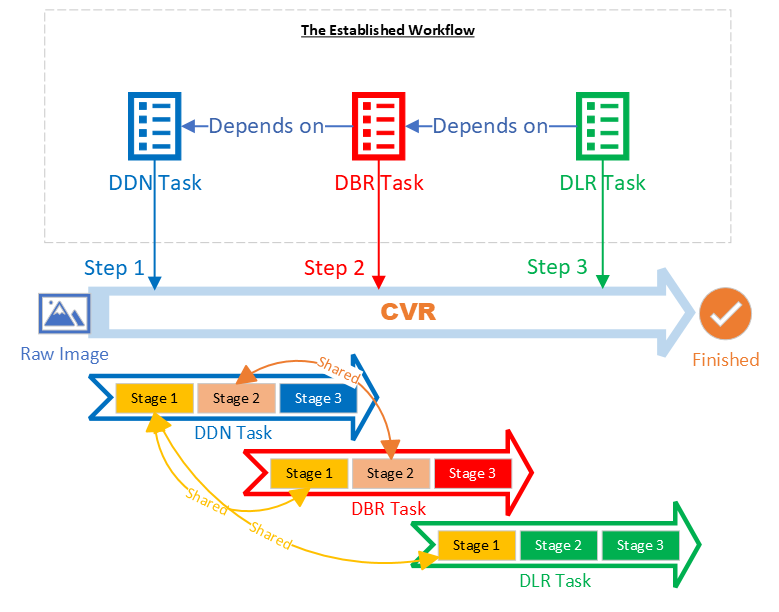
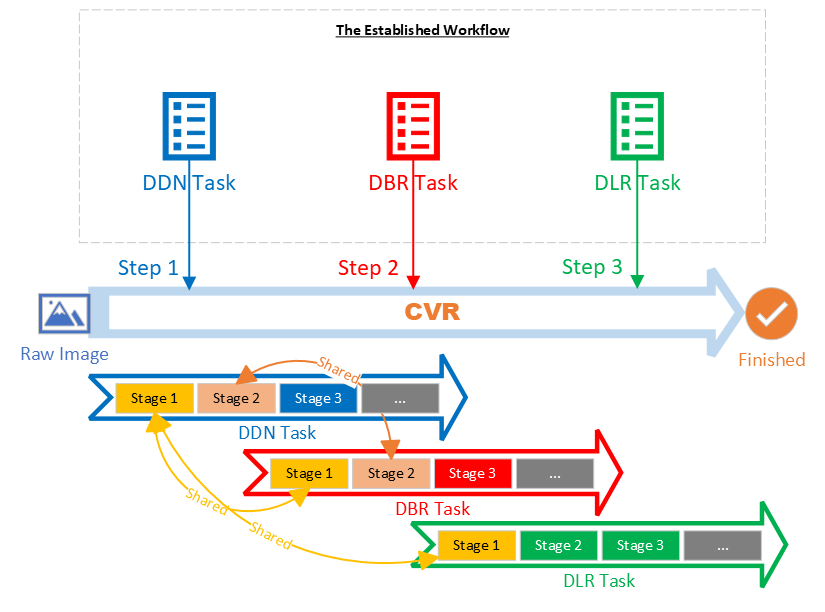
updated architecture page a bit

diff --git a/parameters/file/task-settings/index.md b/parameters/file/task-settings/index.md
@@ -24,33 +24,33 @@ There are five types of tasks and they belong to two categories: image processin
 | Normalize a Document | DDN          | Image Processing    | Normalized Image     |
 | Parse Text
 
-## Divisible Task
+## Divide Task into Sections
 
-An image-processing task can be further devided into three section.
+An image-processing task can be further divided into three section.
 
 > Note that a semantic-processing task is not divisible.
 
 | Task Type            | Sections                                                         |
 | :------------------- | :--------------------------------------------------------------- |
-| Read Barcodes        | Region Predetection, Barcode Localization, Barcode Decoding      |
-| Recognize Text Lines | Region Predetection, Textline Localization, Textline Recognition |
-| Normalize a Document | Region Predetection, Document Detection, Document Normalization  |
+| Read Barcodes        | Region Pre-detection, Barcode Localization, Barcode Decoding      |
+| Recognize Text Lines | Region Pre-detection, Text-line Localization, Text-line Recognition |
+| Normalize a Document | Region Pre-detection, Document Detection, Document Normalization  |
 
 There are 7 different image-processing sections in total which belong to one of three steps of a task:
 
 - Step one: initial image processing, trying to find parts of the image, called "regions" that exhibit distinct features that match the result we are trying to obtain. Then these regions are cropped to produce regional images as the final output of this step for the next step to process. There is only one section for this step:
-  - [Region Predetection](image-process/region-predetection.md)
+  - [Region Pre-detection](image-process/region-Pre-detection.md)
   > 1. If no specific region is found, the entire image is the output.
   > 2. There can be multiple regions found which result in multiple regional images as the output.
-- Step two: detecting the precise location, called "zones" of the final results (a barcode, a textline or a document) on the regional images from step one. Then these zones are cropped to produce zonal images as the final output of step two. This step is one of the following three sections:
+- Step two: detecting the precise location, called "zones" of the final results (a barcode, a text-line or a document) on the regional images from step one. Then these zones are cropped to produce zonal images as the final output of step two. This step is one of the following three sections:
   - [Barcode Localization](image-process/barcode-localization.md)
-  - [Textline Localization](image-process/textline-localization.md)
+  - [Text-line Localization](image-process/textline-localization.md)
   - [Document Detection](assets/document-detection.png) (a document refers to an object with a quadrilateral boundary)
   > 1. As seen on the table above, one task will have only one of these sections.
-  > 2. As mentioned in [divisible section](#divisible-section), each section is further divided into stages. These three sections in step two starts with the same few stages. Read more on [Shared Detection](image-process/shared-detection.md).
+  > 2. As mentioned in ["Divide Section into Stages"](#divide-section-into-stages), each section is further divided into stages. These three sections in step two starts with the same few stages. Read more on [Shared Detection](image-process/shared-detection.md).
 - Step three: producing the final results based on the zonal images. This step is one of the following three sections:
   - [Barcode Decoding](image-process/barcode-decoding.md)
-  - [Textline Recognition](image-process/textline-recognition.md)
+  - [Text-line Recognition](image-process/textline-recognition.md)
   - [Document Normalization](image-process/document-normalization.md)
   > As seen on the table above, one task will have only one of these sections.
 
@@ -61,21 +61,21 @@ Usually, a task is complete which means it consists of three consecutive section
 1. An incomplete task can be a halfway task which means it starts from step two or even step three and consists of only two or even just one section. Read more about [StartSection](../parameters/reference/start-section.md).
 2. An incomplete task can be a premature task which means it ends early and doesn't produce the final results. Unlike a halfway task which must start at the beginning of a section, a premature task can end at any stage of a section. Read more about [TerminateSetting](../parameters/reference/terminate-settings.md).
 
-## Divisible Section
+## Divide Section into Stages
 
-Each of the 7 sections mentioned in [Divisible Task](#divisible-section) can be further devided into many stages as shown below:
+Each of the 7 sections mentioned in ["Divide Task into Sections"](#d) can be further divided into many stages as shown below:
 
-> Stages shared by Barcode Localization, Textline Localization and Document Detection are put together for the pseudo type "Shared Partial Section". Read more on [Shared Detection](image-process/shared-detection.md)
+> Stages shared by Barcode Localization, Text-line Localization and Document Detection are put together for the pseudo type "Shared Partial Section". Read more on [Shared Detection](image-process/shared-detection.md)
 
 | Section Type             | Stages                                                                                                                                                                                                                                                                                                                                   |
 | :----------------------- | :--------------------------------------------------------------------------------------------------------------------------------------------------------------------------------------------------------------------------------------------------------------------------------------------------------------------------------------- |
-| Region Predetection      | IRUT_COLOUR_IMAGE, IRUT_SCALED_DOWN_COLOUR_IMAGE, IRUT_GRAYSCALE_IMAGE, <br /> IRUT_TRANSOFRMED_GRAYSCALE_IMAGE, IRUT_PREDETECTED_REGIONS                                                                                                                                                                                                |
+| Region Pre-detection      | IRUT_COLOUR_IMAGE, IRUT_SCALED_DOWN_COLOUR_IMAGE, IRUT_GRAYSCALE_IMAGE, <br /> IRUT_TRANSOFRMED_GRAYSCALE_IMAGE, IRUT_PREDETECTED_REGIONS                                                                                                                                                                                                |
 | *Shared Partial Section* | IRUT_COLOUR_IMAGE, IRUT_SCALED_DOWN_COLOUR_IMAGE, IRUT_GRAYSCALE_IMAGE, <br /> IRUT_TRANSOFRMED_GRAYSCALE_IMAGE, IRUT_ENHANCED_GRAYSCALE_IMAGE, IRUT_BINARY_IMAGE, <br /> IRUT_TEXTURE_DETECTION_RESULT, IRUT_TEXTURE_REMOVED_GRAYSCALE_IMAGE, IRUT_TEXTURE_REMOVED_BINARY_IMAGE, <br /> IRUT_TEXT_ZONES, IRUT_TEXT_REMOVED_BINARY_IMAGE |
 | Barcode Localization     | IRUT_CONTOURS, IRUT_LINE_SEGMENTS, IRUT_CANDIDATE_BARCODE_ZONES, <br /> IRUT_LOCALIZED_BARCODES                                                                                                                                                                                                                                          |
-| Textline Localization    | IRUT_LOCALIZED_TEXT_LINES                                                                                                                                                                                                                                                                                                                |
+| Text-line Localization    | IRUT_LOCALIZED_TEXT_LINES                                                                                                                                                                                                                                                                                                                |
 | Document Detection       | IRUT_CONTOURS, IRUT_LINE_SEGMENTS, IRUT_LONG_LINES, <br /> IRUT_CORNERS, IRUT_CANDIDATE_QUAD_EDGES, IRUT_DETECTED_QUADS                                                                                                                                                                                                                  |
 | Barcode Decoding         | IRUT_COLOUR_IMAGE, IRUT_GRAYSCALE_IMAGE, IRUT_TRANSOFRMED_GRAYSCALE_IMAGE, <br /> IRUT_DEFORMATION_RESISTED_BARCODE_IMAGE, IRUT_COMPLEMENTED_BARCODE_IMAGE, IRUT_SCALED_UP_BARCODE_IMAGE, <br /> IRUT_DECODED_BARCODES                                                                                                                   |
-| Textline Recognition     | IRUT_COLOUR_IMAGE, IRUT_GRAYSCALE_IMAGE, IRUT_TRANSOFRMED_GRAYSCALE_IMAGE, <br /> IRUT_RECOGNIZED_TEXT_LINES                                                                                                                                                                                                                             |
+| Text-line Recognition     | IRUT_COLOUR_IMAGE, IRUT_GRAYSCALE_IMAGE, IRUT_TRANSOFRMED_GRAYSCALE_IMAGE, <br /> IRUT_RECOGNIZED_TEXT_LINES                                                                                                                                                                                                                             |
 | Document Normalization   | IRUT_NORMALIZED_IMAGE                                                                                                                                                                                                                                                                                                                    |
 
 In total, there are 27 unique stages:

diff --git a/architecture/index-old.md b/architecture/index-old.md
@@ -31,9 +31,6 @@ This article presents the DCV architecture, which explains why it has the follow
   - [Task Types](#task-types)
   - [Target Region Of Interest](#target-region-of-interest)
   - [Semantic Processing Options](#semantic-processing-options)
-- [Divisible Task](#divisible-task)
-  - [Incomplete Task](#incomplete-task)
-- [Divisible Section](#divisible-section)
 
 ## Concise Structure
 
@@ -174,90 +171,3 @@ Semantic processing usually works on a string and is most likely the last step i
 Read more about [semantic processing](semantic-process.md).
 
 With TargetROI definitions and semantic processing options, a CaptureVisionTemplate is able to establish a customized workflow with organzied tasks to process images and obtain different types of results.
-
-## Divisible Task
-
-An image-processing task can be further devided into three section.
-
-> Note that a semantic-processing task is not divisible.
-
-| Task Type            | Sections                                                         |
-| :------------------- | :--------------------------------------------------------------- |
-| Read Barcodes        | Region Predetection, Barcode Localization, Barcode Decoding      |
-| Recognize Text Lines | Region Predetection, Textline Localization, Textline Recognition |
-| Normalize a Document | Region Predetection, Document Detection, Document Normalization  |
-
-There are 7 different image-processing sections in total which belong to one of three steps of a task:
-
-- Step one: initial image processing, trying to find parts of the image, called "regions" that exhibit distinct features that match the result we are trying to obtain. Then these regions are cropped to produce regional images as the final output of this step for the next step to process. There is only one section for this step:
-  - [Region Predetection](image-process/region-predetection.md)
-  > 1. If no specific region is found, the entire image is the output.
-  > 2. There can be multiple regions found which result in multiple regional images as the output.
-- Step two: detecting the precise location, called "zones" of the final results (a barcode, a textline or a document) on the regional images from step one. Then these zones are cropped to produce zonal images as the final output of step two. This step is one of the following three sections:
-  - [Barcode Localization](image-process/barcode-localization.md)
-  - [Textline Localization](image-process/textline-localization.md)
-  - [Document Detection](assets/document-detection.png) (a document refers to an object with a quadrilateral boundary)
-  > 1. As seen on the table above, one task will have only one of these sections.
-  > 2. As mentioned in [divisible section](#divisible-section), each section is further divided into stages. These three sections in step two starts with the same few stages. Read more on [Shared Detection](image-process/shared-detection.md).
-- Step three: producing the final results based on the zonal images. This step is one of the following three sections:
-  - [Barcode Decoding](image-process/barcode-decoding.md)
-  - [Textline Recognition](image-process/textline-recognition.md)
-  - [Document Normalization](image-process/document-normalization.md)
-  > As seen on the table above, one task will have only one of these sections.
-
-### Incomplete Task
-
-Usually, a task is complete which means it consists of three consecutive sections. However, it is not always the case. 
-
-1. An incomplete task can be a halfway task which means it starts from step two or even step three and consists of only two or even just one section. Read more about [StartSection](../parameters/reference/start-section.md).
-2. An incomplete task can be a premature task which means it ends early and doesn't produce the final results. Unlike a halfway task which must start at the beginning of a section, a premature task can end at any stage of a section. Read more about [TerminateSetting](../parameters/reference/terminate-settings.md).
-
-## Divisible Section
-
-Each of the 7 sections mentioned in [Divisible Task](#divisible-section) can be further devided into many stages as shown below:
-
-> Stages shared by Barcode Localization, Textline Localization and Document Detection are put together for the pseudo type "Shared Partial Section". Read more on [Shared Detection](image-process/shared-detection.md)
-
-| Section Type             | Stages                                                                                                                                                                                                                                                                                                                                   |
-| :----------------------- | :--------------------------------------------------------------------------------------------------------------------------------------------------------------------------------------------------------------------------------------------------------------------------------------------------------------------------------------- |
-| Region Predetection      | IRUT_COLOUR_IMAGE, IRUT_SCALED_DOWN_COLOUR_IMAGE, IRUT_GRAYSCALE_IMAGE, <br /> IRUT_TRANSOFRMED_GRAYSCALE_IMAGE, IRUT_PREDETECTED_REGIONS                                                                                                                                                                                                |
-| *Shared Partial Section* | IRUT_COLOUR_IMAGE, IRUT_SCALED_DOWN_COLOUR_IMAGE, IRUT_GRAYSCALE_IMAGE, <br /> IRUT_TRANSOFRMED_GRAYSCALE_IMAGE, IRUT_ENHANCED_GRAYSCALE_IMAGE, IRUT_BINARY_IMAGE, <br /> IRUT_TEXTURE_DETECTION_RESULT, IRUT_TEXTURE_REMOVED_GRAYSCALE_IMAGE, IRUT_TEXTURE_REMOVED_BINARY_IMAGE, <br /> IRUT_TEXT_ZONES, IRUT_TEXT_REMOVED_BINARY_IMAGE |
-| Barcode Localization     | IRUT_CONTOURS, IRUT_LINE_SEGMENTS, IRUT_CANDIDATE_BARCODE_ZONES, <br /> IRUT_LOCALIZED_BARCODES                                                                                                                                                                                                                                          |
-| Textline Localization    | IRUT_LOCALIZED_TEXT_LINES                                                                                                                                                                                                                                                                                                                |
-| Document Detection       | IRUT_CONTOURS, IRUT_LINE_SEGMENTS, IRUT_LONG_LINES, <br /> IRUT_CORNERS, IRUT_CANDIDATE_QUAD_EDGES, IRUT_DETECTED_QUADS                                                                                                                                                                                                                  |
-| Barcode Decoding         | IRUT_COLOUR_IMAGE, IRUT_GRAYSCALE_IMAGE, IRUT_TRANSOFRMED_GRAYSCALE_IMAGE, <br /> IRUT_DEFORMATION_RESISTED_BARCODE_IMAGE, IRUT_COMPLEMENTED_BARCODE_IMAGE, IRUT_SCALED_UP_BARCODE_IMAGE, <br /> IRUT_DECODED_BARCODES                                                                                                                   |
-| Textline Recognition     | IRUT_COLOUR_IMAGE, IRUT_GRAYSCALE_IMAGE, IRUT_TRANSOFRMED_GRAYSCALE_IMAGE, <br /> IRUT_RECOGNIZED_TEXT_LINES                                                                                                                                                                                                                             |
-| Document Normalization   | IRUT_NORMALIZED_IMAGE                                                                                                                                                                                                                                                                                                                    |
-
-In total, there are 27 unique stages:
-
-- IRUT_COLOUR_IMAGE
-- IRUT_SCALED_DOWN_COLOUR_IMAGE
-- IRUT_GRAYSCALE_IMAGE
-- IRUT_TRANSOFRMED_GRAYSCALE_IMAGE
-- IRUT_ENHANCED_GRAYSCALE_IMAGE
-- IRUT_PREDETECTED_REGIONS
-- IRUT_BINARY_IMAGE
-- IRUT_TEXTURE_DETECTION_RESULT
-- IRUT_TEXTURE_REMOVED_GRAYSCALE_IMAGE
-- IRUT_TEXTURE_REMOVED_BINARY_IMAGE
-- IRUT_CONTOURS
-- IRUT_LINE_SEGMENTS
-- IRUT_TEXT_ZONES
-- IRUT_TEXT_REMOVED_BINARY_IMAGE
-- IRUT_CANDIDATE_BARCODE_ZONES
-- IRUT_LOCALIZED_BARCODES
-- IRUT_SCALED_UP_BARCODE_IMAGE
-- IRUT_DEFORMATION_RESISTED_BARCODE_IMAGE
-- IRUT_COMPLEMENTED_BARCODE_IMAGE
-- IRUT_DECODED_BARCODES
-- IRUT_LONG_LINES
-- IRUT_CORNERS
-- IRUT_CANDIDATE_QUAD_EDGES
-- IRUT_DETECTED_QUADS
-- IRUT_LOCALIZED_TEXT_LINES
-- IRUT_RECOGNIZED_TEXT_LINES
-- IRUT_NORMALIZED_IMAGE
-
-These stages are the minimal processing units that can be manipulated. The results from these stages are called [intermediate results](image-process/intermediate-result.md). For successive stages, the result of one stage is usually the source object to be processed by the next stage. A user can register listeners to obtain the results for one or multiple stages. DCV also allows the user to manipulate the algorithmic process by changing the result in between stages. Read more on [Intermediate Result Receiver](output.md#intermediate-result-receiver).
-

diff --git a/architecture/index.md b/architecture/index.md
@@ -49,7 +49,7 @@ CVR accepts and maintains a list of image-processing settings known as [CaptureV
 At runtime, CVR selects a *CaptureVisionTemplate* and analyzes it to build a task workflow, which then runs for all images acquired from the image source.
 
 - For tasks that can run in parallel, CVR will start to process the next image as long as it has an extra working thread to create a functional product instance. Read more on [Parallel Image Processing](#parallel-image-processing).
-- For tasks that must run in a sequence, CVR makes sure that each task follows the correctt order of operations.
+- For tasks that must run in a sequence, CVR makes sure that each task follows the correct order of operations.
 
 > There are two type of tasks. Read more about [Image-Processing Tasks](image-processing/index.md) and [Semantic-Processing Tasks](semantic-processing.md).
 
@@ -62,9 +62,9 @@ As images are getting processed by CVR, different types of results can be produc
 1. *Final results*: also known as *Captured Results*. These are the results of a completed task.
    > There are 6 types of final results. Read more about them [here](output.md#final-results).
 2. *Intermediate results*: these are results produced during the process of completing a task. They can be produced at multiple check-points of a task.
-   > These check points are called *Stages*, and there are 27 stages at present. Read more on what a [divisible task](../parameters/file/task-settings/index.md#divisible-task) is.
+   > These check points are called *stages*, and there are 27 stages at present. These stages are further divided into 7 groups called *image processing sections*. Read more on [Image-Processing Tasks](../parameters/file/task-settings/index.md).
 
-The following diagram is a simple demostration of the CVR workflow:
+The following diagram is a simple demonstration of the CVR workflow:
 
 ![CVR Tasks](assets/CVR-Tasks.png)
 
@@ -92,7 +92,7 @@ DCV was built with scalability at the forefront of the architectural design thro
 
 ### Flexibility with Customizable Workflows
 
-In the DCV architecure, flexibility is achieved through task coordination.
+In the DCV architecture, flexibility is achieved through task coordination.
 
 Task coordination is a process in which CVR establishes a workflow connecting different tasks, and then calls upon the required functional products to perform these tasks on each image.
 
@@ -122,7 +122,9 @@ The interconnectivity of the different functional products in the DCV architectu
 
 We talked about how CVR [dispatches results to listening objects](#dispatch-results-to-listening-objects), where we introduced intermediate results which are produced at multiple check-points, known as stages, of a task. Another responsibility of CVR that we touched upon is [coordinating image-processing tasks](#coordinate-image-processing-tasks), where we learned that multiple tasks can be configured in a single workflow.
 
-Take the sample image in Figure 1 as an example. The image is first processed by *DDN*, then by *DBR*, and lastly by *DLR*. All three tasks analyze the pixels of an image to find results, and they share similar analysis "stages". Under certain conditions, they can share the results from these analysis stages so that one product (let's say *DBR*) can use the intermediate results produced by another functional product (let's say *DDN*), saving time and resources.
+Suppose a workflow defines three parallel tasks, namely *DDN*, *DBR* and *DLR* tasks, which execute on the same image or the same area on the image (known as [target region of interest](../parameters/file/target-roi-definition/location/index.md). All these three tasks analyze the pixels of the image to find results, and they share similar analysis "stages". Under certain conditions, they can share the results from these analysis stages so that one functional product (let's say *DBR*) can use the intermediate results produced by another functional product (let's say *DDN*), saving time and resources.
+
+> Read more on [*image-processing stages*](image-processing/index.md#divide-section-into-stages).
 
 The following diagram is a simple demonstration of the idea:
 
@@ -153,7 +155,7 @@ Another benefit of the DCV Architecture is that the outward interface is very si
 | Index | Description                            | Corresponding API of CVR                                                                                                               |
 | :-------- | :------------------------------------- | :------------------------------------------------------------------------------------------------------------------------------------- |
 | Job 1     | Get Images from the Image Source.      | `SetInput()` accepts an image source.                                                                                                  |
-| Job 2     | Coordinate Image-Processing Tasks.     | `InitSettings()` accepts a parameter file which defines one or multiple worflows and `StartCapturing()` specifies one workflow to use. |
+| Job 2     | Coordinate Image-Processing Tasks.     | `InitSettings()` accepts a parameter file which defines one or multiple workflows and `StartCapturing()` specifies one workflow to use. |
 | Job 3     | Dispatch Results to Listening Objects. | `AddResultReceiver()` accepts one or multiple listening objects.                                                                       |
 
 Job 1 and 3 serve as "input" and "output" and are straightforward. In different applications, the real difference will be in job 2 where different arrangements of tasks mean applications may do completely different things. For some usage scenarios, the workflows are usually consistent, which allows settings to be predefined as ["CaptureVisionTemplates"](../parameters/file/capture-vision-template.md). We call these scenarios **packable scenarios**. Customers can specify one of these templates to use in their applications, simplifying the development work needed.
@@ -168,7 +170,7 @@ Each image-processing task consists of multiple stages. Each stage by itself is 
 
 However, let's consider the barcode reading process. One stage may find the exact location of a barcode and another will decode the barcode to get the text. In some cases, a barcode may be localized but fail the decoding stage and we want the user to notice the difference. To do this, we add a listening object compatible with the [Intermediate Result Receiver (IRR) interface](output.md#intermediate-result-receiver) and listen for localized barcodes and decoded barcodes, then highlight these barcodes with different colours or with some other flag.
 
-Intermediate results are generated throughout the execution of a task and CVR makes sure that these results are immediately dispatched to all registered listeners. The following diagram is a simple demostration of this.
+Intermediate results are generated throughout the execution of a task and CVR makes sure that these results are immediately dispatched to all registered listeners. The following diagram is a simple demonstration of this.
 
 ![Intermediate-Result-Dispatch](assets/Intermediate-Result-Dispatch.png)
 
@@ -184,7 +186,7 @@ The DCV architecture allows external programs to intervene in image processing. 
 4. The code examines the result, makes some changes, and sends it back to CVR;
 5. CVR injects the updated data back and resumes image processing.
   
-The following diagram is a simple demostration of this process
+The following diagram is a simple demonstration of this process
 
 ![Intermediate-Result-Intervention](assets/Intermediate-Result-Intervention.png)
 

diff --git a/architecture/image-processing/index.md b/architecture/image-processing/index.md
@@ -24,7 +24,7 @@ The following are the image-processing tasks supported:
 | Recognize Text Lines | DLR          | Image Processing | Recognized TextLines |
 | Normalize a Document | DDN          | Image Processing | Normalized Image     |
 
-## Divisible Task
+## Divide Task into Sections
 
 An image-processing task can be further divided into three sections.
 
@@ -45,7 +45,7 @@ In total, there are 7 unique image-processing sections, which belong to one of t
   - [Text-line Localization](textline-localization.md)
   - [Document Detection](document-detection.md) (a document refers to an object with a quadrilateral boundary)
   > 1. As seen on the table above, one task will have only one of these sections.
-  > 2. As mentioned in [divisible section](#divisible-section), each section is further divided into stages. These three sections in step two starts with the same few stages. Read more on [Shared Detection](shared-detection.md).
+  > 2. As mentioned in [divide section into stages](#divide-section-into-stages), each section is further divided into stages. These three sections in step two starts with the same few stages. Read more on [Shared Detection](shared-detection.md).
 - Step three: producing the final results based on the zonal images. This step is one of the following three sections:
   - [Barcode Decoding](barcode-decoding.md)
   - [Text-line Recognition](textline-recognition.md)
@@ -59,9 +59,9 @@ Usually, a task is complete which means it consists of three consecutive section
 1. An incomplete task can be a halfway task which means it starts from step two or even step three and consists of only two or even just one section. Read more about [StartSection](../../parameters/reference/start-section.md).
 2. An incomplete task can be a premature task which means it ends early and doesn't produce the final results. Unlike a halfway task which must start at the beginning of a section, a premature task can end at any stage of a section. Read more about [TerminateSetting](../../parameters/reference/terminate-settings.md).
 
-## Divisible Section
+## Divide Section into Stages
 
-Each of the 7 sections mentioned in [Divisible Task](#divisible-section) can be further divided into many stages as shown below:
+Each of the 7 sections mentioned in ["Divide Task into Sections"](#divide-task-into-sections) can be further divided into many stages as shown below:
 
 > Stages shared by Barcode Localization, Text-line Localization and Document Detection are put together for the pseudo type "Shared Partial Section". Read more on [Shared Detection](shared-detection.md)
 
